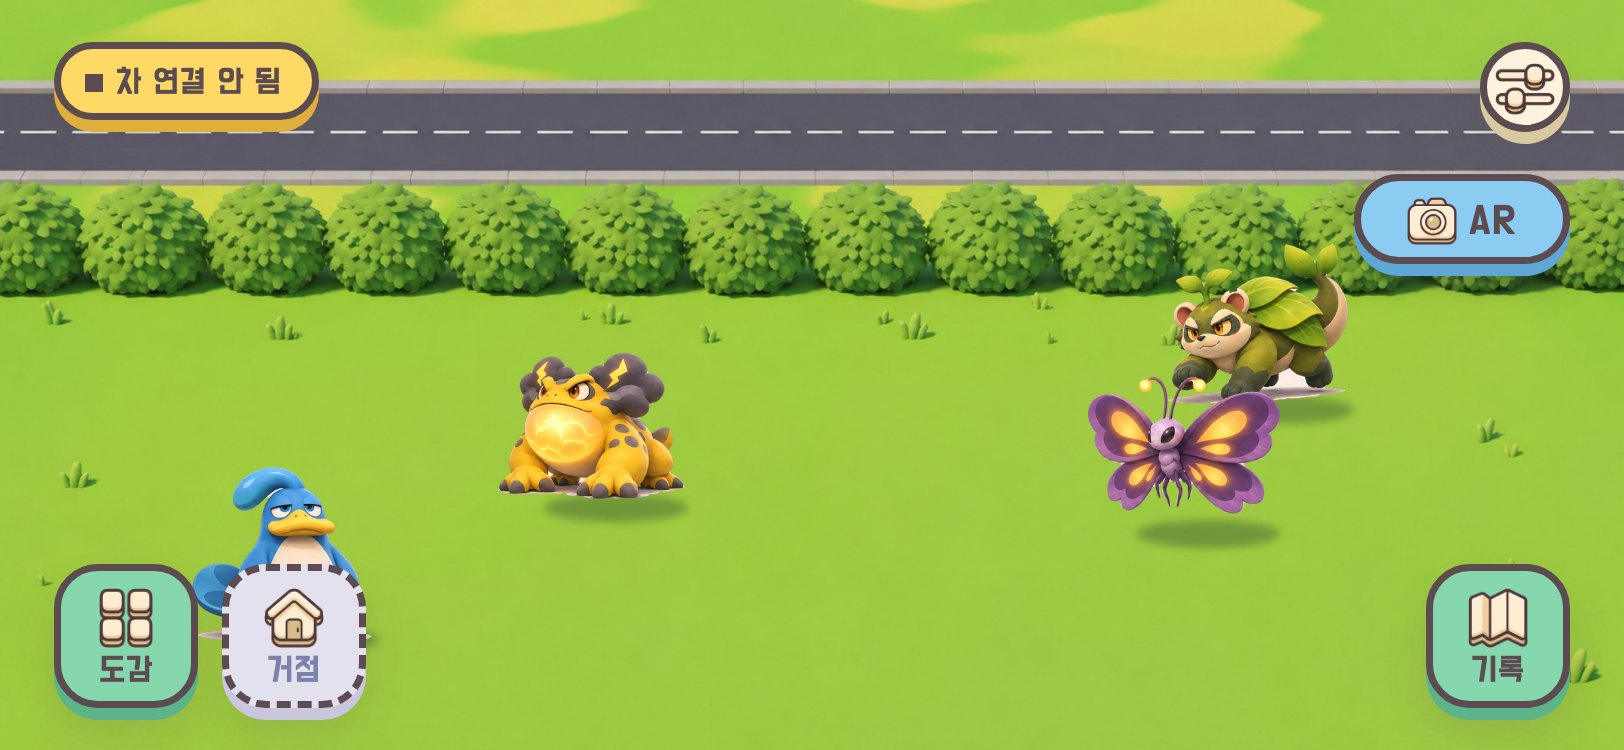
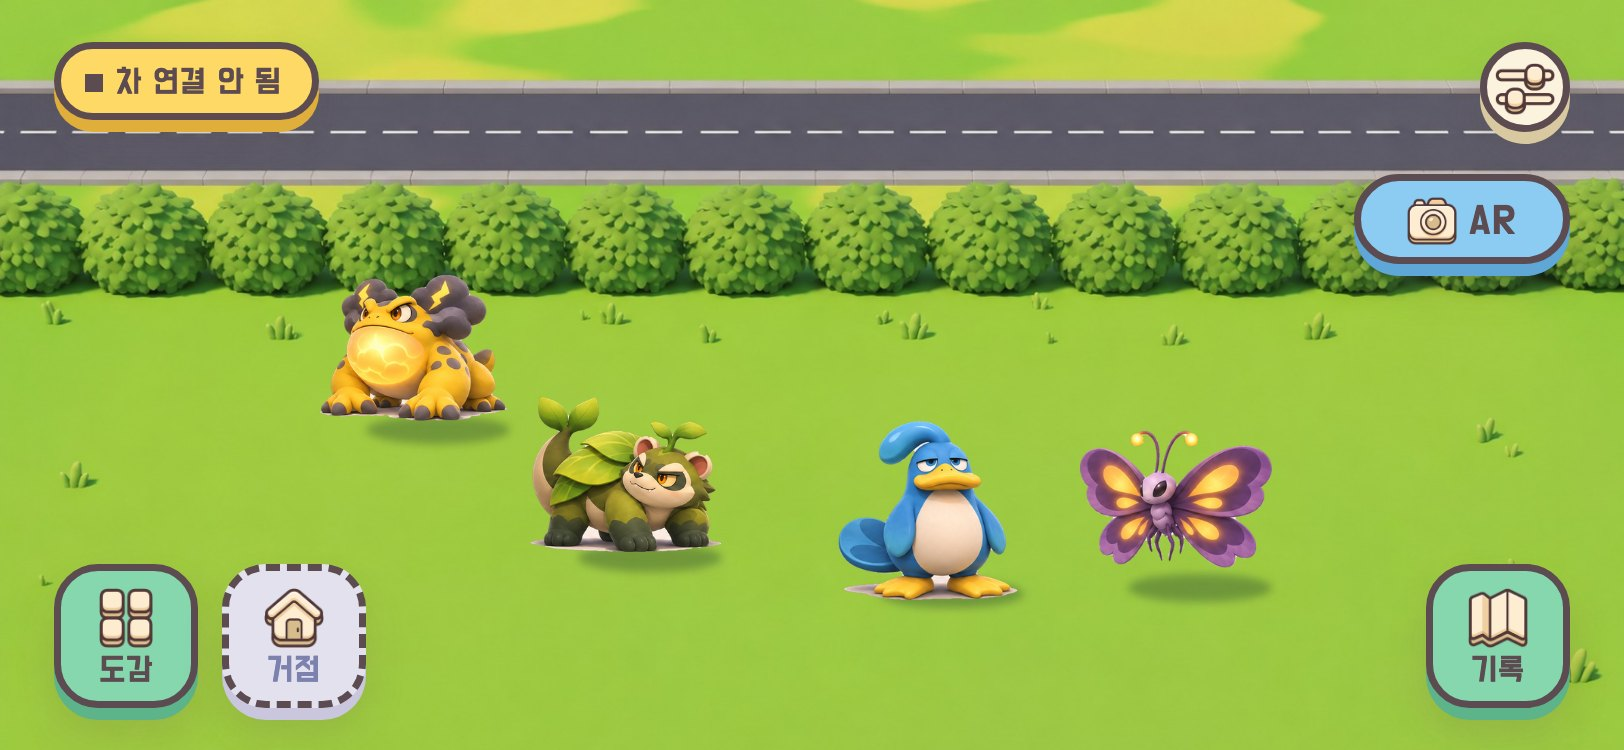
fix(mockup): keep walking characters off the buttons and apart from each other

diff --git a/docs/mockups/v2/allo-flow.html b/docs/mockups/v2/allo-flow.html
@@ -414,18 +414,25 @@ function setTheme(t){st.auto=t=="auto";st.tm=st.auto?clockTheme():t;buildScene()
  if(history.replaceState&&!q.has("embed"))history.replaceState(null,"","?t="+(st.auto?"auto":st.tm)+(location.hash||""))}
 
 /* ===== 홈 캐릭터(임시) ===== */
-let cs=[];const pick=()=>{let b;for(let k=0;k<40;k++){b=[1+Math.random()*(NG-2),1+Math.random()*(NG-2)];if(cs.every(c=>Math.hypot(c.tu-b[0],c.tv-b[1])>1.7))break}return b};
+let cs=[];/* 버튼(왼쪽·오른쪽 아래, 오른쪽 위) 위로는 걷지 않고, 서로 겹치지 않게 간격(화면 좌표 타원)을 둔다 */
+const ok=(u,v)=>{const [x,y]=P(u,v);return !((y>275&&(x<235||x>665))||(y<285&&x>640))};
+const dense=()=>st.n>8,gap=(a,b,c,d)=>Math.hypot((a-c)*89/90,(b-d)*23.75/(dense()?60:80));
+const pick=from=>{const k=dense()?.7:1;for(let i=0;i<80;i++){const b=[1+Math.random()*(NG-2),1+Math.random()*(NG-2)];
+  if(ok(...b)&&cs.every(c=>gap(b[0],b[1],c.tu,c.tv)>k&&gap(b[0],b[1],c.u,c.v)>k)&&(!from||[.25,.5,.75].every(t=>ok(from[0]+(b[0]-from[0])*t,from[1]+(b[1]-from[1])*t))))return b}return from||[4,3]};
+function sep(dt){for(let i=0;i<cs.length;i++)for(let j=i+1;j<cs.length;j++){const a=cs[i],b=cs[j],d=gap(a.u,a.v,b.u,b.v);
+  const m=dense()?.65:.95;if(d<m){const dx=(b.u-a.u)*89/90,dy=(b.v-a.v)*23.75/(dense()?60:80),n=d||1,k=(m-d)*dt*5;
+   [[a,-1],[b,1]].forEach(([c,g])=>{const u=c.u+g*dx/n*k*90/89,v=c.v+g*dy/n*k*(dense()?60:80)/23.75;if(ok(u,v)){c.u=u;c.v=v}})}}}
 const asleep=()=>st.tm=="night";
 function spawn(){$("#cs").innerHTML="";cs=[];
  for(let i=0;i<st.n;i++){const e=document.createElement("div");e.className="sp"+(asleep()?" zz":"");const im=document.createElement("img");im.alt="";im.src=src(i,asleep()?"sleep":"idle");e.appendChild(im);
   const c={i,e,im,u:0,v:0,tu:0,tv:0,w:Math.random()*2,dir:1,mv:0};[c.u,c.v]=pick();c.tu=c.u;c.tv=c.v;e.onclick=()=>zoom(c);cs.push(c);$("#cs").appendChild(e)}}
 let last=performance.now();
 function loop(t){const dt=Math.min(.05,(t-last)/1000);last=t;
- if(st.cur=="home")cs.forEach(c=>{const du=c.tu-c.u,dv=c.tv-c.v,d=Math.hypot(du,dv);let mv=0;
+ if(st.cur=="home"){if(!asleep())sep(dt);cs.forEach(c=>{const du=c.tu-c.u,dv=c.tv-c.v,d=Math.hypot(du,dv);let mv=0;
   if(!asleep()&&d>.05){const s=.45*dt;c.u+=du/d*s;c.v+=dv/d*s;mv=1;c.dir=P(c.tu,c.tv)[0]>=P(c.u,c.v)[0]?1:-1}
-  else{c.w-=dt;if(c.w<=0&&!asleep()){[c.tu,c.tv]=pick();c.w=1.5+Math.random()*3}}
+  else{c.w-=dt;if(c.w<=0&&!asleep()){[c.tu,c.tv]=pick([c.u,c.v]);c.w=1.5+Math.random()*3}}
   if(mv!=c.mv){c.mv=mv;c.e.classList.toggle("walk",!!mv);c.im.src=src(c.i,asleep()?"sleep":mv?"move":"idle")}
-  const [x,y]=P(c.u,c.v);c.e.style.left=Math.round(x)+"px";c.e.style.top=Math.round(y)+"px";c.e.style.zIndex=Math.round(y);c.im.style.transform=`scaleX(${c.dir>0?-1:1})`});
+  const [x,y]=P(c.u,c.v);c.e.style.left=Math.round(x)+"px";c.e.style.top=Math.round(y)+"px";c.e.style.zIndex=Math.round(y);c.im.style.transform=`scaleX(${c.dir>0?-1:1})`})}
  requestAnimationFrame(loop)}
 
 /* ===== 변신 연출 ===== */
